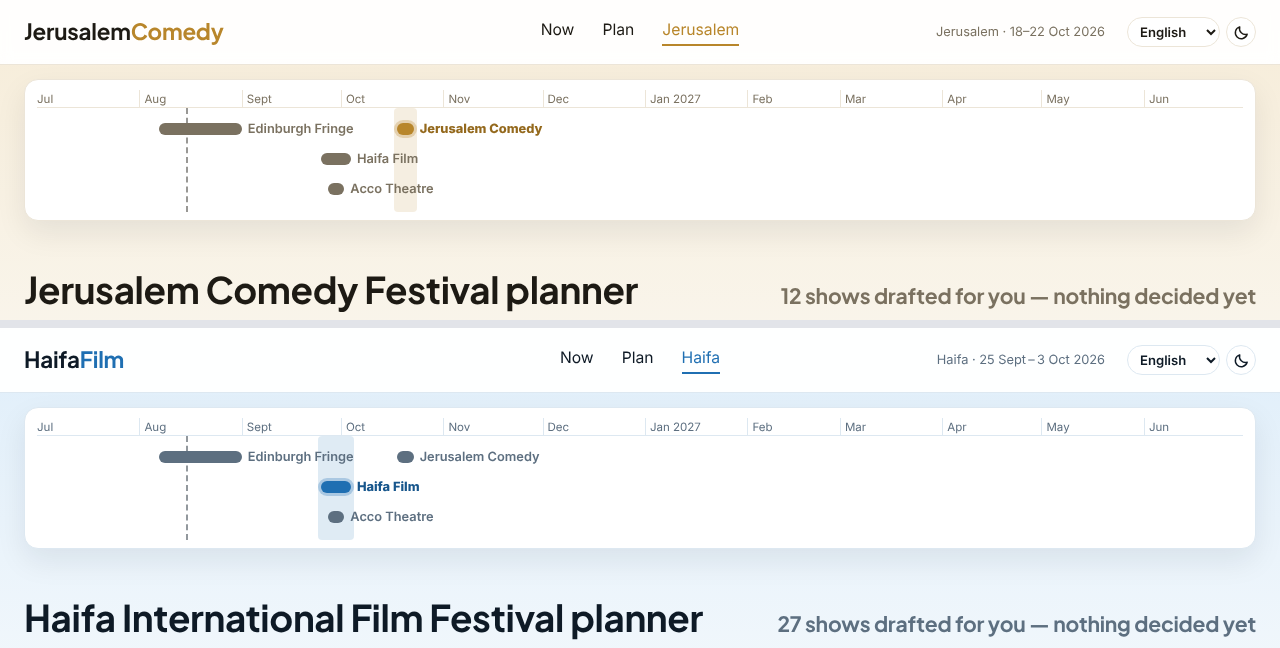
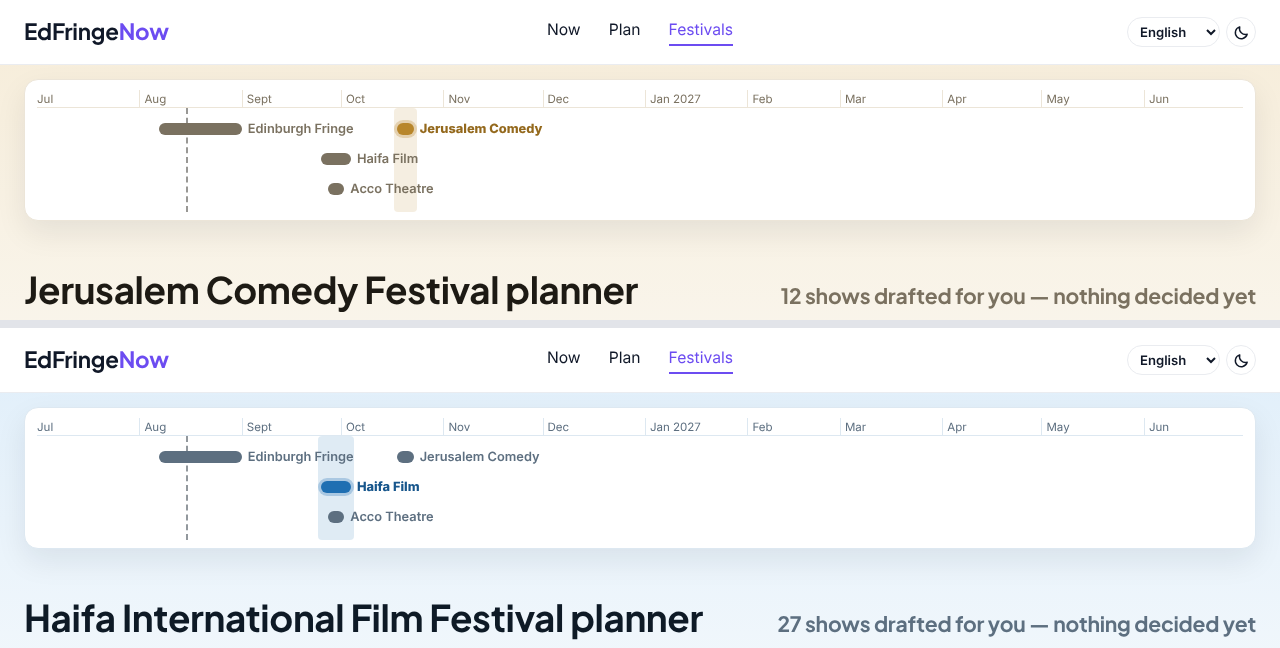
PlanNG: keep the site header the same for every festival
The top bar no longer changes with the focused festival: the logo is always
EdFringeNow, the nav's third link always reads Festivals, the city-and-dates
hint is gone, and the bar keeps the house palette (opaque, so the festival's
wash does not tint it). Which festival the page plans is left to the timeline
and the page title. Spec 18.1 and 23.6 rewritten to match; goldens refreshed.

Claude-Session: https://claude.ai/code/session_01E77Vq2uqKwAq59UVUKTiqS

diff --git a/site/planNG/planNG.js b/site/planNG/planNG.js
@@ -363,7 +363,7 @@ function festivalCity(festival) {
   return p ? t(p.cityKey) : festival.city;
 }
 
-/** Its mark: two words, the second in the accent colour. */
+/** Its two-word mark, which the timeline labels it by. */
 function wordmarkOf(festival) {
   const p = presentationOf(festival.id);
   if (p) return p.wordmark;
@@ -376,11 +376,8 @@ const siteName = (url) => url.replace(/^https?:\/\//, "").replace(/^www\./, "").
 
 function renderChrome() {
   const festival = state.focus && state.focus.festival;
-  // The wordmark is the festival's mark rather than a sentence, so it is the
-  // one piece of chrome that reads the same in every language.
-  const [head, tail] = festival ? wordmarkOf(festival) : ["EdFringe", "Now"];
-  $("wordmark").innerHTML = `${escapeHtml(head)}<span class="logo-now">${escapeHtml(tail)}</span>`;
-
+  // The bar is the site's, not the festival's: the same nav whichever festival
+  // is in focus. The timeline and the page title say which one that is.
   const nav = $("siteNav");
   nav.innerHTML =
     SITE_NAV.map(
@@ -389,7 +386,7 @@ function renderChrome() {
         `${escapeHtml(t(link.labelKey))}</a>`
     ).join("") +
     `<a href="./" class="nav-link is-active" data-i18n-slot="nav.festivals">` +
-    `${escapeHtml(festival ? festivalCity(festival) : t("nav.festivals"))}</a>`;
+    `${escapeHtml(t("nav.festivals"))}</a>`;
 
   const title = $("pageTitle");
   title.textContent = festival ? t("festival.title", { festival: festivalName(festival) }) : t("page.title");
@@ -409,19 +406,6 @@ function renderChrome() {
         }
       )
     : "";
-}
-
-function renderHeaderHint() {
-  const { festival, edition } = state.focus;
-  $("headerHint").textContent = t("header.run", {
-    city: festivalCity(festival),
-    // formatRange, not two formats spliced: only the locale's own data knows
-    // where the year goes and which part of a range is dropped as repeated.
-    range: dates({ day: "numeric", month: "short", year: "numeric" }).formatRange(
-      dateOf(edition.firstDate),
-      dateOf(edition.lastDate)
-    ),
-  });
 }
 
 // --- the board ------------------------------------------------------------
@@ -2275,7 +2259,6 @@ function retranslate() {
   renderChrome();
   if (!state.catalogue) return;
   renderTimelineStrip();
-  renderHeaderHint();
   renderPeriodBar();
   renderPoolNote();
   renderOriginCard();
@@ -2459,7 +2442,6 @@ async function loadPool({ window: win = null, keepWindow = false } = {}) {
   $("boardDrawer").hidden = false;
   renderChrome();
   renderTimelineStrip();
-  renderHeaderHint();
   renderPeriodBar();
   renderPoolNote();
   renderOriginCard();

diff --git a/site/planNG/planNG.css b/site/planNG/planNG.css
@@ -239,9 +239,9 @@ body.festival-page {
 
 /* --- the reader's own two controls ---------------------------------------- */
 
-/* Language and theme sit at the end of the header, after the festival's dates:
-   they belong to the reader rather than to the festival, so they read as the
-   last thing in the bar rather than as part of its identity. */
+/* Language and theme sit at the end of the header: they belong to the reader
+   rather than to the site, so they read as the last thing in the bar rather
+   than as part of its identity. */
 .chrome-prefs {
   display: inline-flex;
   align-items: center;
@@ -343,6 +343,22 @@ body.festival-page {
    is a rule that cannot drift between the two. */
 .site-header {
   background: color-mix(in srgb, var(--paper) 95%, transparent);
+}
+
+/* The bar is the site's, not the festival's: it keeps the house palette
+   plan.css defines whichever festival's block is in force on the root, so
+   nothing in it moves when the reader picks another festival. plan.css has no
+   dark side, so the dark half of each pair is set here. */
+.site-header {
+  --violet: light-dark(#6c4cf1, #a591ff);
+  --violet-dark: light-dark(#5a3fd6, #c3b6ff);
+  --ink: light-dark(#101828, #eceaf5);
+  --paper: light-dark(#ffffff, #1a1826);
+  --muted: light-dark(#667085, #a3a0b5);
+  --line: light-dark(#eaecf0, #2e2b3d);
+  /* Opaque, or the festival's wash behind the page's top tints it. */
+  background: var(--paper);
+  color: var(--ink);
 }
 .board-clear,
 .btn-ghost,

diff --git a/product/requirements/screen/cases/jerusalem-chrome.18.1.case.js b/product/requirements/screen/cases/jerusalem-chrome.18.1.case.js
@@ -1,10 +1,18 @@
 "use strict";
-const { jerusalemReady } = require("../../shared/case-helpers");
+const { jerusalemReady, plannerReady } = require("../../shared/case-helpers");
 
 module.exports = {
-  description: "the festival header: wordmark, three-way nav with Jerusalem active, the festival's own run",
-  capture: ".site-header",
+  description: "the site header, identical on two festivals: EdFringeNow wordmark, three-way nav with Festivals active",
   page: "/planNG/?festival=jerusalem-comedy",
   viewport: "desktop",
   ready: jerusalemReady,
+  // The same bar on two festivals, one above the other: nothing in it moves.
+  async capture(page, t) {
+    const jerusalem = await t.unionClip([".site-header"], 0);
+    await page.click('.tl-item[data-festival="haifa-iff"]');
+    await plannerReady(page, "haifa-iff");
+    await page.evaluate(() => window.scrollTo(0, 0));
+    const haifa = await t.unionClip([".site-header"], 0);
+    return t.stitchV([jerusalem, haifa], 8);
+  },
 };

diff --git a/site/planNG/ru/index.html b/site/planNG/ru/index.html
@@ -37,10 +37,9 @@
   <!-- ===================== Header ===================== -->
   <header class="site-header">
     <div class="container header-inner">
-      <a href="/" class="logo" id="wordmark"></a>
+      <a href="/" class="logo">EdFringe<span class="logo-now">Now</span></a>
       <nav class="main-nav" data-i18n-aria-label="nav.primaryLabel" aria-label="Основная" id="siteNav"></nav>
       <div class="header-side">
-        <span class="header-hint" id="headerHint" data-i18n-slot="header.run"></span>
         <!-- The two controls that belong to the reader rather than to the
              festival: which language the chrome speaks, and whether the page
              is light or dark. -->

diff --git a/site/planNG/ja/index.html b/site/planNG/ja/index.html
@@ -37,10 +37,9 @@
   <!-- ===================== Header ===================== -->
   <header class="site-header">
     <div class="container header-inner">
-      <a href="/" class="logo" id="wordmark"></a>
+      <a href="/" class="logo">EdFringe<span class="logo-now">Now</span></a>
       <nav class="main-nav" data-i18n-aria-label="nav.primaryLabel" aria-label="メイン" id="siteNav"></nav>
       <div class="header-side">
-        <span class="header-hint" id="headerHint" data-i18n-slot="header.run"></span>
         <!-- The two controls that belong to the reader rather than to the
              festival: which language the chrome speaks, and whether the page
              is light or dark. -->

diff --git a/site/planNG/he/index.html b/site/planNG/he/index.html
@@ -37,10 +37,9 @@
   <!-- ===================== Header ===================== -->
   <header class="site-header">
     <div class="container header-inner">
-      <a href="/" class="logo" id="wordmark"></a>
+      <a href="/" class="logo">EdFringe<span class="logo-now">Now</span></a>
       <nav class="main-nav" data-i18n-aria-label="nav.primaryLabel" aria-label="ראשי" id="siteNav"></nav>
       <div class="header-side">
-        <span class="header-hint" id="headerHint" data-i18n-slot="header.run"></span>
         <!-- The two controls that belong to the reader rather than to the
              festival: which language the chrome speaks, and whether the page
              is light or dark. -->

diff --git a/site/planNG/index.html b/site/planNG/index.html
@@ -36,10 +36,9 @@
   <!-- ===================== Header ===================== -->
   <header class="site-header">
     <div class="container header-inner">
-      <a href="/" class="logo" id="wordmark"></a>
+      <a href="/" class="logo">EdFringe<span class="logo-now">Now</span></a>
       <nav class="main-nav" data-i18n-aria-label="nav.primaryLabel" aria-label="Primary" id="siteNav"></nav>
       <div class="header-side">
-        <span class="header-hint" id="headerHint" data-i18n-slot="header.run"></span>
         <!-- The two controls that belong to the reader rather than to the
              festival: which language the chrome speaks, and whether the page
              is light or dark. -->

diff --git a/product/requirements/screen/cases/planng-theme.23.6.case.js b/product/requirements/screen/cases/planng-theme.23.6.case.js
@@ -8,8 +8,8 @@ module.exports = {
   page: "/planNG/?festival=jerusalem-comedy",
   viewport: "desktop",
   ready: jerusalemReady,
-  // The same region twice, one festival each: the name, the wordmark, the
-  // palette and the wash behind them all move with the festival chosen.
+  // The same region twice, one festival each: the name, the palette and the
+  // wash behind them move with the festival chosen; the header above does not.
   async capture(page, t) {
     const jerusalem = await t.unionClip(HEAD, 0);
     await page.click('.tl-item[data-festival="haifa-iff"]');

diff --git a/site/planNG/i18n/translations.js b/site/planNG/i18n/translations.js
@@ -405,14 +405,6 @@ export const STRINGS = {
     ru: "Основная",
     ja: "メイン",
   },
-  "header.run": {
-    maxWidthPx: 375,
-    sample: { city: "Jerusalem", range: "18–22 Oct 2026" },
-    en: "{city} · {range}",
-    he: "{city} · {range}",
-    ru: "{city} · {range}",
-    ja: "{city} · {range}",
-  },
   "chrome.language": {
     maxWidthPx: null,
     unrendered: "the language picker's accessible name — the control itself shows the language's own name",

diff --git a/product/requirements.md b/product/requirements.md
@@ -929,15 +929,17 @@ festivals — the city, the dates, the palette, the partner links — comes from
 registry and one presentation entry per festival, so another festival is data
 and a theme rather than another page.
 
-- `18.1` The page chrome: the festival's own wordmark, the three-way site nav with **Jerusalem** active, and the festival's dates.
+- `18.1` The page chrome is the site's own and the same for every festival: the **EdFringeNow** wordmark and the three-way site nav with **Festivals** active.
 
   ![jerusalem-chrome.18.1](requirements/screen/cases/jerusalem-chrome.18.1.png) <!-- req-gallery:18.1 -->
 
   <details><summary>Notes</summary>
 
-  The nav links are `Now` (`/`), `Plan` (`/plan/`) and the focused festival's
-  city (`./`, active). The header hint reads the focused festival's own run,
-  not Edinburgh's.
+  The nav links are `Now` (`/`), `Plan` (`/plan/`) and `Festivals` (`./`,
+  active). The bar names no festival and shows no dates, and keeps the house
+  palette whichever festival is in focus: the picture is the header on
+  Jerusalem above the header on Haifa. Which festival the page plans is the
+  timeline's and the page title's to say.
   </details>
 
 - `18.2` The programme, listed to browse and search, inside the drawer beneath the calendar.
@@ -1531,7 +1533,7 @@ reached from there.
 
   🚩 _Behavior leaf._ <!-- req-gallery:23.5 -->
 
-- `23.6` The page takes the focused festival's theme: its name, its wordmark and its palette.
+- `23.6` Below the site header, the page takes the focused festival's theme: its name and its palette.
 
   ![planng-theme.23.6](requirements/screen/cases/planng-theme.23.6.png) <!-- req-gallery:23.6 -->
 
